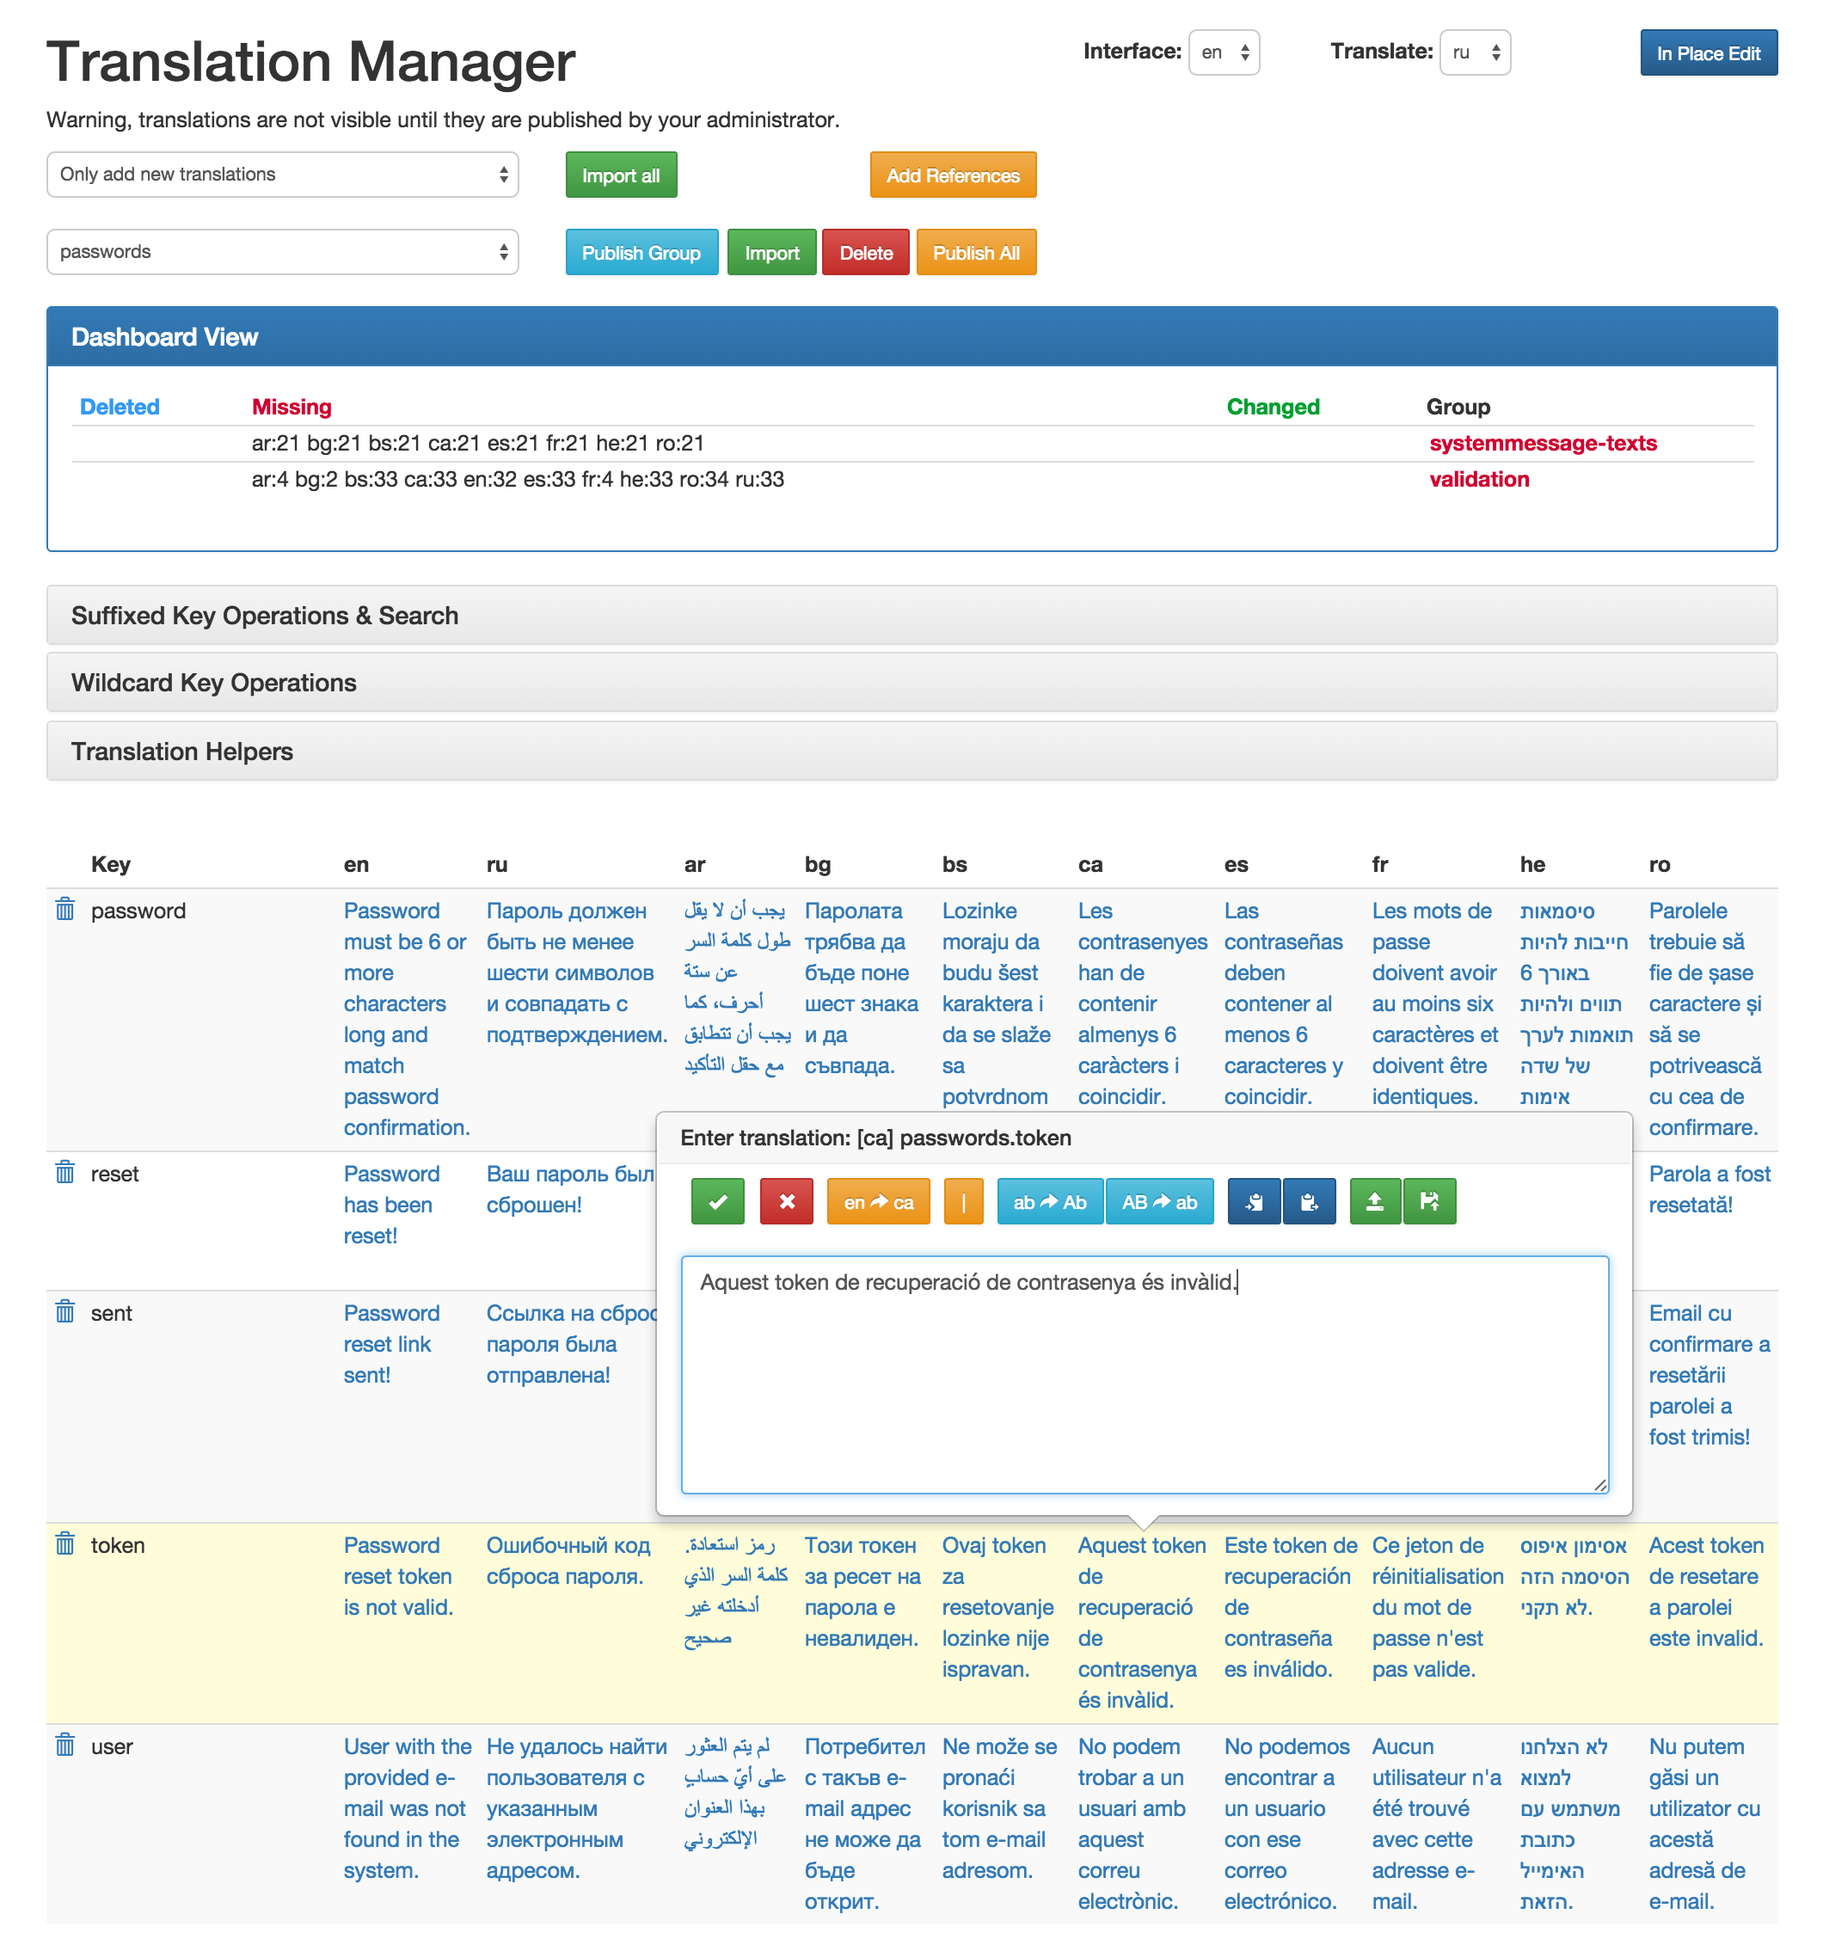
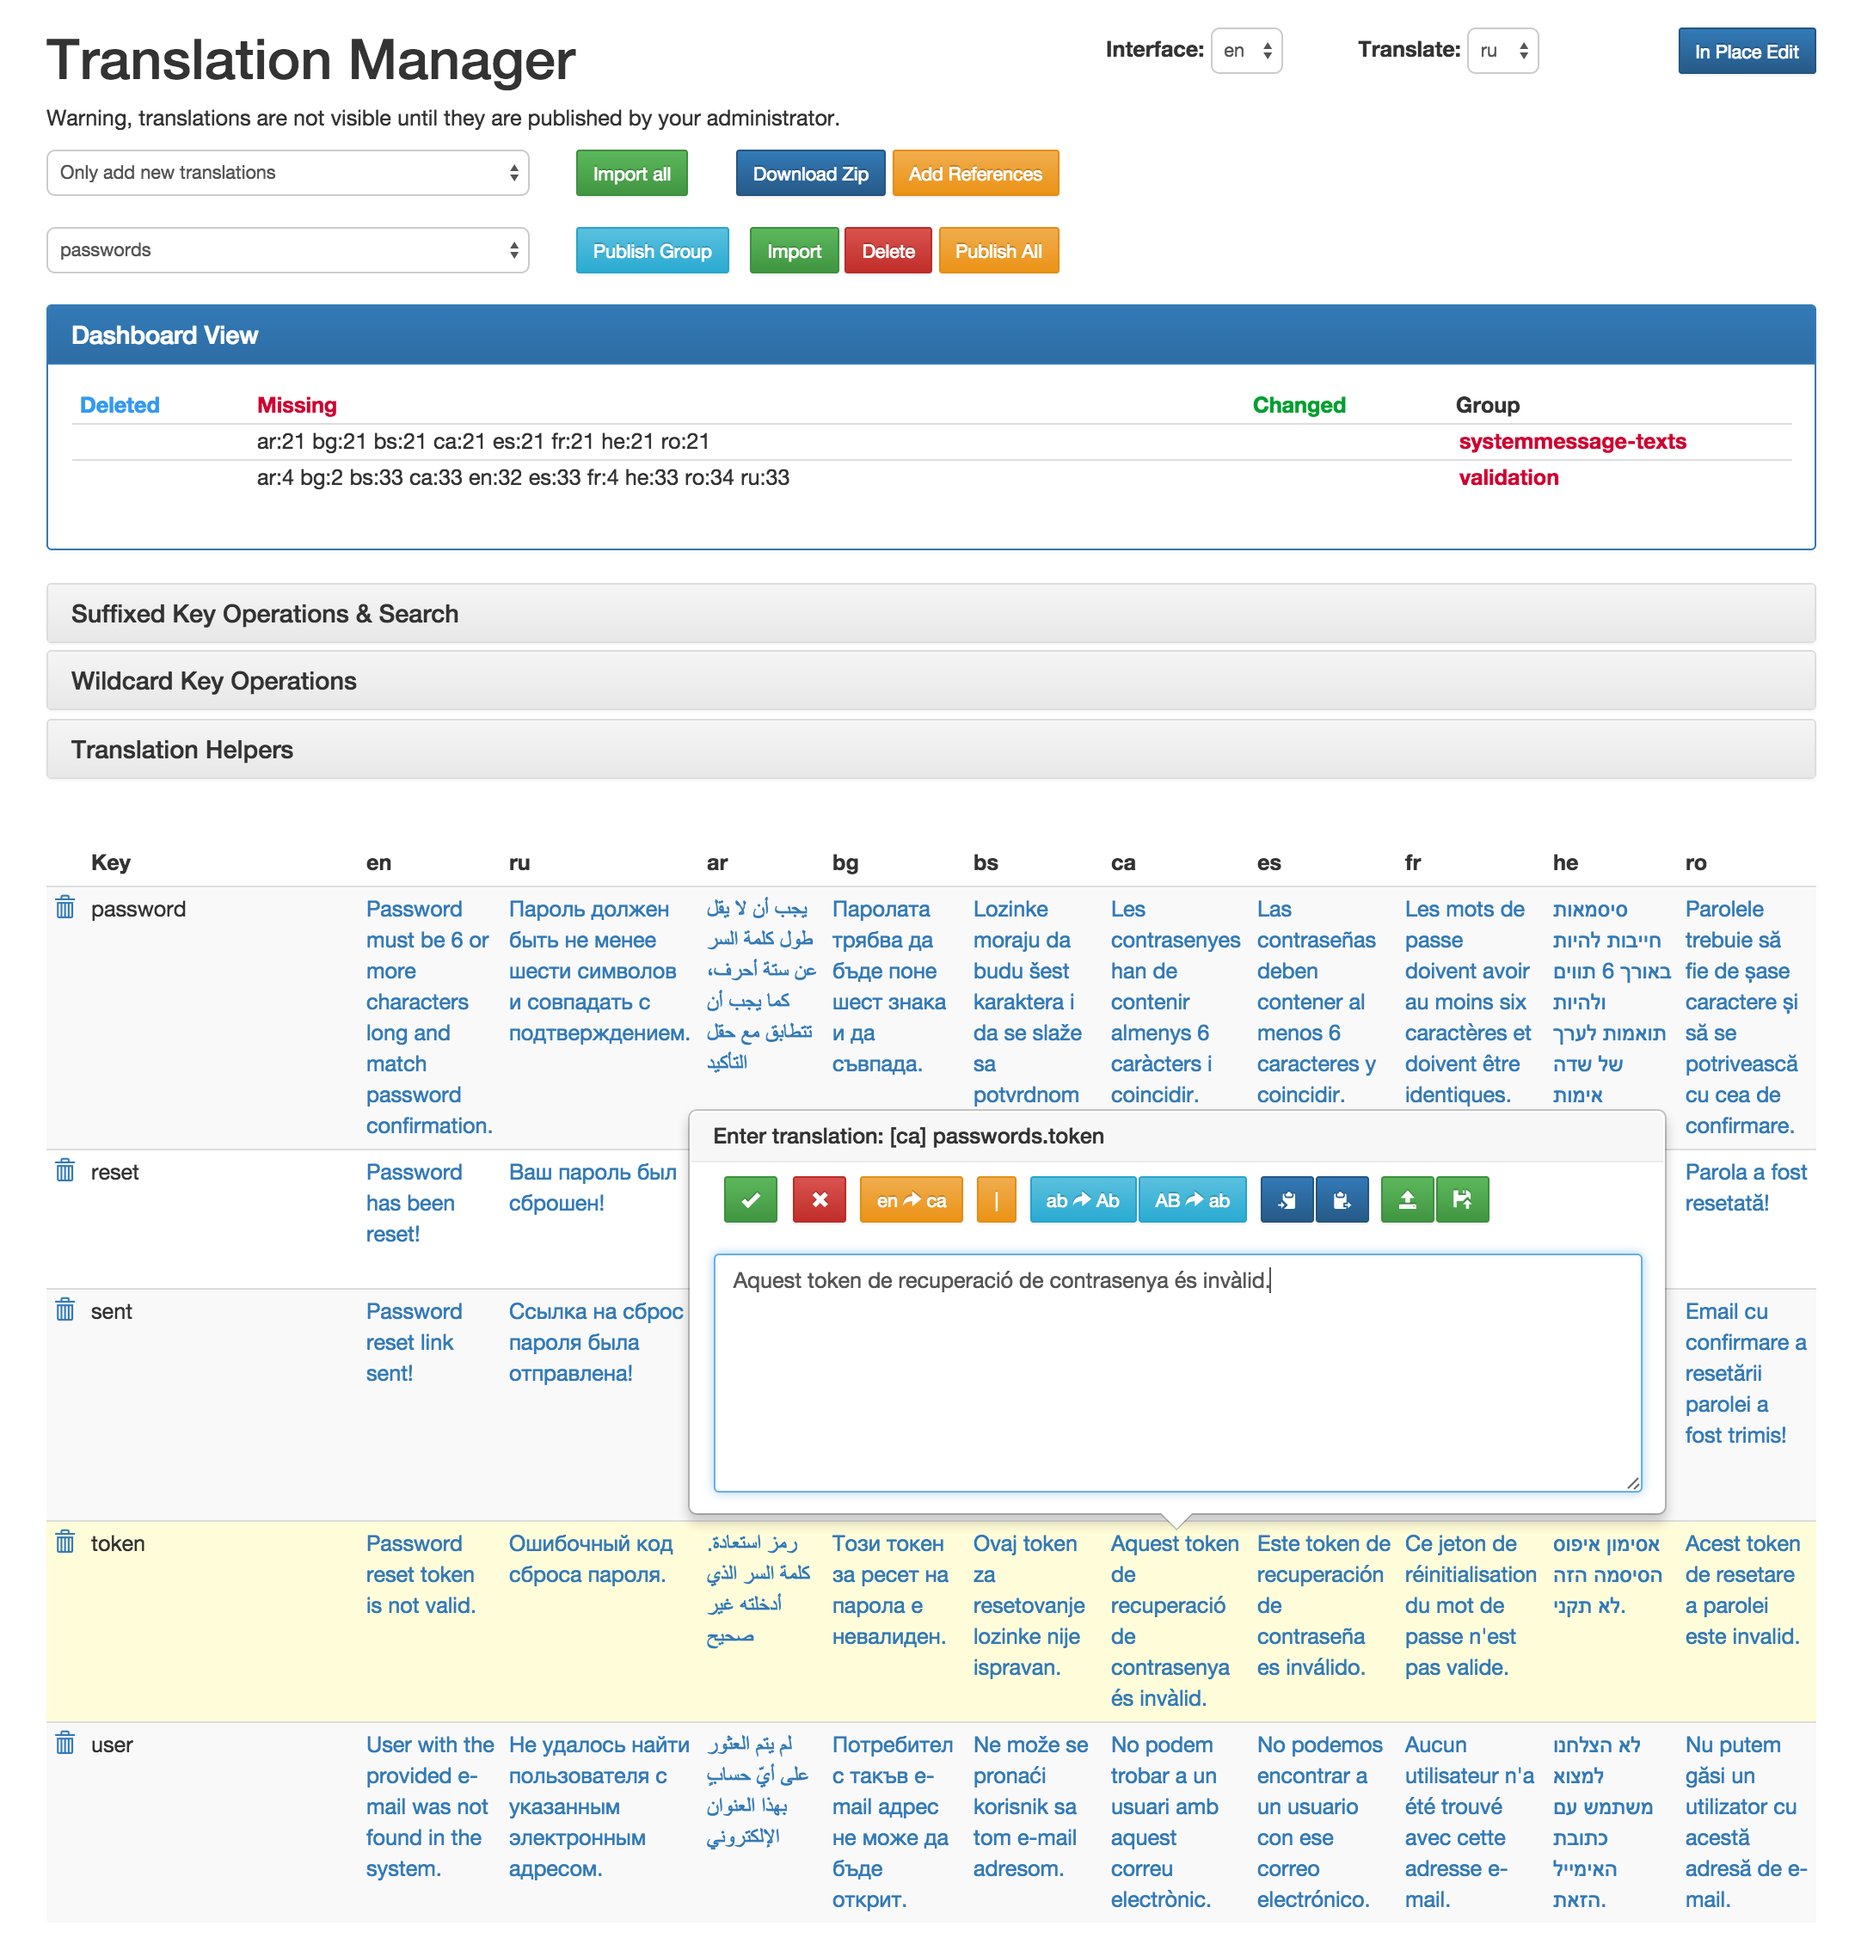
add zip download capability to web interface

diff --git a/src/Vsch/TranslationManager/Manager.php b/src/Vsch/TranslationManager/Manager.php
@@ -11,6 +11,7 @@ use Illuminate\Support\Facades\Session;
 use Symfony\Component\Finder\Finder;
 use Vsch\TranslationManager\Classes\TranslationFileRewriter;
 use Vsch\TranslationManager\Models\Translation;
+use ZipArchive;
 
 /**
  * Class Manager
@@ -32,6 +33,11 @@ class Manager
     protected $cachePrefix;
     protected $cache;
     protected $cacheIsDirty;
+
+    /**
+     * @var   \ZipArchive
+     */
+    protected $zipExporting;
 
     public
     function __construct(Application $app, Filesystem $files, Dispatcher $events, Translation $translation)
@@ -467,7 +473,7 @@ SQL
     function exportTranslations($group, $recursing = 0)
     {
         $inDatabasePublishing = $this->inDatabasePublishing();
-        if ($inDatabasePublishing && ($inDatabasePublishing !== 2 || !$recursing))
+        if ($inDatabasePublishing < 3 && $inDatabasePublishing && ($inDatabasePublishing < 2 || !$recursing))
         {
             if ($group && $group !== '*')
             {
@@ -500,7 +506,7 @@ SQL
             });
         }
 
-        if (!$inDatabasePublishing || $inDatabasePublishing === 2)
+        if (!$inDatabasePublishing || $inDatabasePublishing === 2 || $inDatabasePublishing === 3)
         {
             if (!in_array($group, $this->config()['exclude_groups']))
             {
@@ -510,7 +516,7 @@ SQL
                 $this->translation->getConnection()->affectingStatement("DELETE FROM ltm_translations WHERE is_deleted = 1 AND `group` = ?"
                     , [$group]);
 
-                $this->clearCache($group);
+                if ($inDatabasePublishing === 2) $this->clearCache($group);
 
                 $tree = $this->makeTree(Translation::where('group', $group)->whereNotNull('value')->orderby('key')->get());
                 $configRewriter = new TranslationFileRewriter();
@@ -534,10 +540,19 @@ SQL
                         }
 
                         $configRewriter->parseSource($this->files->exists($path) ? $this->files->get($path) : '');
-
                         $output = $configRewriter->formatForExport($translations, $exportOptions);
-                        $this->makeDirPath($path);
-                        $this->files->put($path, $output);
+
+                        if ($this->zipExporting)
+                        {
+                            $filePathName = substr($path, mb_strlen($this->app->make('path')) + 1);
+                            //$this->makeDirPath($filePathName);
+                            $this->zipExporting->addFromString($filePathName, $output);
+                        }
+                        else
+                        {
+                            $this->makeDirPath($path);
+                            $this->files->put($path, $output);
+                        }
                     }
                 }
 
@@ -562,6 +577,45 @@ SQL
         {
             $this->exportTranslations($group->group, $recursing);
         }
+    }
+
+    public
+    function zipTranslations($groups)
+    {
+        $zip_name = tempnam("Translations_" . time(), "zip"); // Zip name
+        $this->zipExporting = new ZipArchive();
+        $this->zipExporting->open($zip_name, ZipArchive::OVERWRITE);
+
+        if (!is_array($groups))
+        {
+            if ($groups === '*')
+            {
+                $groups = Translation::whereNotNull('value')->select(DB::raw('DISTINCT `group`'))->get('group');
+                foreach ($groups as $group)
+                {
+                    // Stuff with content
+                    $this->exportTranslations($group->group, 0);
+                }
+            }
+            else
+            {
+                // Stuff with content
+                $this->exportTranslations($groups, 0);
+            }
+        }
+        else
+        {
+            foreach ($groups as $group)
+            {
+                // Stuff with content
+                $this->exportTranslations($group, 0);
+            }
+        }
+
+        $this->zipExporting->close();
+        $this->zipExporting = null;
+
+        return $zip_name;
     }
 
     public
@@ -613,6 +667,6 @@ SQL
     public
     function inDatabasePublishing()
     {
-        return array_key_exists('indatabase_publish', $this->config()) ? (int)$this->config['indatabase_publish'] : 0;
+        return $this->zipExporting ? 3 : (array_key_exists('indatabase_publish', $this->config()) ? (int)$this->config['indatabase_publish'] : 0);
     }
 }

diff --git a/src/views/index.blade.php b/src/views/index.blade.php
@@ -73,6 +73,11 @@
                                                     <?= noEditTrans('laravel-translation-manager::messages.import-groups') ?>
                                                 </button>
                                                 <div class="input-group" style="float:right; display:inline">
+                                                    <?= ifEditTrans('laravel-translation-manager::messages.download-zip') ?>
+                                                    <a href="<?= action('Vsch\TranslationManager\Controller@getZippedTranslations', ['group' => '*']) ?>"
+                                                            role="button" class="btn btn-primary btn-sm">
+                                                        <?= noEditTrans('laravel-translation-manager::messages.download-zip') ?>
+                                                    </a>
                                                     <?= ifEditTrans('laravel-translation-manager::messages.find-in-files') ?>
                                                     <?= ifEditTrans('laravel-translation-manager::messages.searching') ?>
                                                     <button type="submit" form="form-find" class="btn btn-sm btn-warning"

diff --git a/src/lang/ru/messages.php b/src/lang/ru/messages.php
@@ -1,6 +1,6 @@
 <?php
 
-return [
+return array(
     'addkeys'                   => 'Добавить ключивые',
     'addkeys-placeholder'       => 'Добавляйте по одному ключу на строке без префикса группы',
     'addsuffixes'               => 'Набор Суффиксов',
@@ -36,6 +36,7 @@ TEXT
     'deleting'                  => 'Удаляю...',
     'done-publishing'           => 'Сделал публикацию переводов для группы <strong>:group</strong>.',
     'done-publishing-all'       => 'Публикация переводов для <strong>всех</strong> групп завершена.',
+    'download-zip'              => 'Скачать ZIP-Архив',
     'dst-preview'               => 'На',
     'dstkey'                    => 'На',
     'dstkeys'                   => 'На Ключи',
@@ -103,4 +104,4 @@ TEXT
     'translation-ops'           => 'Помощники Перевода',
     'translations'              => 'Переводы',
     'wildcard-keyops'           => 'Подстановочные Операции С Ключами',
-];
+);

diff --git a/src/lang/en/messages.php b/src/lang/en/messages.php
@@ -1,6 +1,6 @@
 <?php
 
-return [
+return array(
     'addkeys'                   => 'Add Keys',
     'addkeys-placeholder'       => 'Add 1 key per line, without the group prefix',
     'addsuffixes'               => 'Set Suffixes',
@@ -36,6 +36,7 @@ TEXT
     'deleting'                  => 'Deleting...',
     'done-publishing'           => 'Done publishing the translations for group <strong>:group</strong>.',
     'done-publishing-all'       => 'Done publishing the translations for <strong>all</strong> groups.',
+    'download-zip'              => 'Download Zip',
     'dst-preview'               => 'To',
     'dstkey'                    => 'To',
     'dstkeys'                   => 'To Keys',
@@ -103,4 +104,4 @@ TEXT
     'translation-ops'           => 'Translation Helpers',
     'translations'              => 'Translations',
     'wildcard-keyops'           => 'Wildcard Key Operations',
-];
+);

diff --git a/src/Vsch/TranslationManager/Controller.php b/src/Vsch/TranslationManager/Controller.php
@@ -953,4 +953,17 @@ SQL
         return !is_null(Request::header('referer')) ? Redirect::back() : Redirect::to('/');
     }
 
+    public
+    function getZippedTranslations($group = null)
+    {
+        $file = $this->manager->zipTranslations($group);
+
+        header('Content-Type: application/zip');
+        header('Content-Length: ' . filesize($file));
+        header('Content-Disposition: attachment; filename="Translations_' . date('Ymd-His') . '.zip"');
+        ob_clean();
+        flush();
+        readfile($file);
+        unlink($file);
+    }
 }

diff --git a/readme.md b/readme.md
@@ -4,7 +4,7 @@ Note that this package is originally based on Barry vd. Heuvel's <barryvdh@gmail
 
 This is a package to manage Laravel translation files. It does not replace the Translation system but augments it with:
 
-- import/export the php files to a database
+- import/export/download the php files to/from a database
 - make translations editable through a web interface.
 - allow in-database translations to override the ones in the language files. Used to update translations on server clusters where updating translation files is not possible (like AWS EC2) or would cause server code to be out of sync.
 - assisted translation with Yandex API integrated into the web interface.
@@ -16,6 +16,7 @@ The workflow would be:
 - Optionally: Log missing translation
 - Translate all keys through the web interface
 - Export: Write all translations back to the translation files or cache if in production environment where writing of files is not an option.
+- Download zipped translations. The zip archive will contain the files that would be exported to the app/lang directory in the same directory structure so it is easy to replace app/lang on your development system.
 
 This way, translations can be saved in git history and no overhead is introduced in production.
 
@@ -41,6 +42,12 @@ When a translation is not yet created in a different locale, you can also just e
 Using the buttons on the web interface, you can import/export the translations. For publishing translations, make sure your application can write to the language directory or optionally configure it to do in-database publishing using the cache by adding:
 
 The web interface lets you select the locale for the web interface and also the locale that you are currently translating. This is only used to order the locale columns displayed in the translation table such that the primary locale is always listed first and the translating locale is second, followed by all the other locales.
+
+### In Place Edit
+
+The "In Place Edit" button will allow you to edit all Translation Manager web interface translation strings right in the page. If you want to try this mode you will need to copy the lang/{locale}/messages.php from the vendors/vsch/laravel-translation-manager/src directory to your project's app/lang/packages/{locale}/laravel-translation-manager directory for all the locales whose translations you want to override in your project. Following that you will need to import the translations using the 'import' button or the artisan import command.
+
+If you do not copy the package language files then all translation edit links will display as Empty and editing them will create an override in your project for the translation when you 'Publish' the group 'laravel-translation-manager::messages' or 'Publish All'.
 
 ### Suffixed Key Operations & Search (panel)
 
@@ -281,8 +288,6 @@ This package is still in development although it is successfully being used to m
 - key operations that allow creating new keys and also keys permuted by suffixes, moving, copying, deleting keys are a bit of a kludge. I am planning to rework the web interface to make these cleaner. However, if you desperately need these to save a lot of typing and editing, the current version will do the trick.
 
 - Create a Laravel 5 compatible branch.
-
-- ability to download a zip file that contains all translation files that would be generated by publish operation. This would be useful to get an updated copy of translations from a production server if an SQL connection from local dev environment is not available.
 
 - web interface needs a way of limiting which locales get loaded and displayed for systems that have a lot of supported locales with a lot of translations, otherwise the resulting page load time is too long. It would be best to limit number of active locales to a user selectable list. Then use this list to limit all processing including the dashboard view.
 
